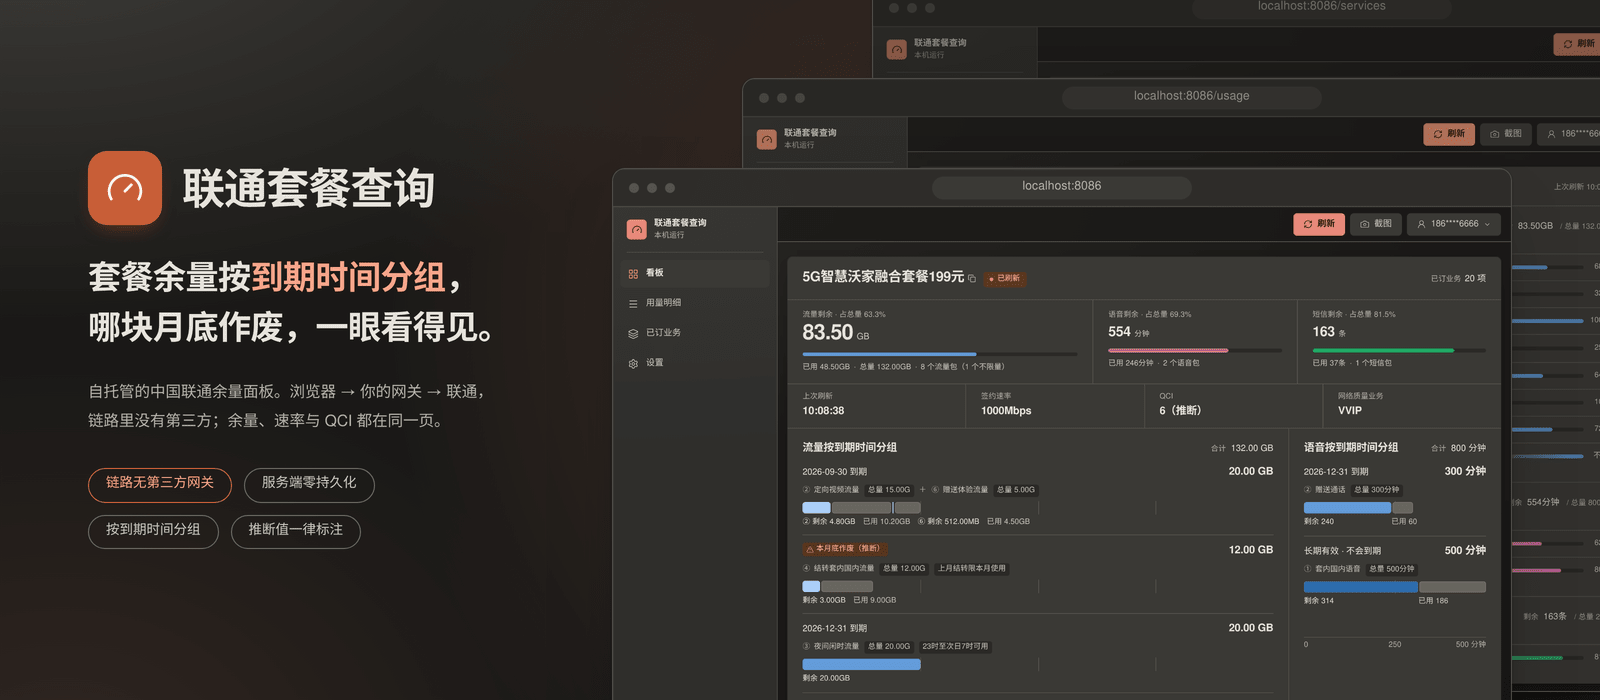
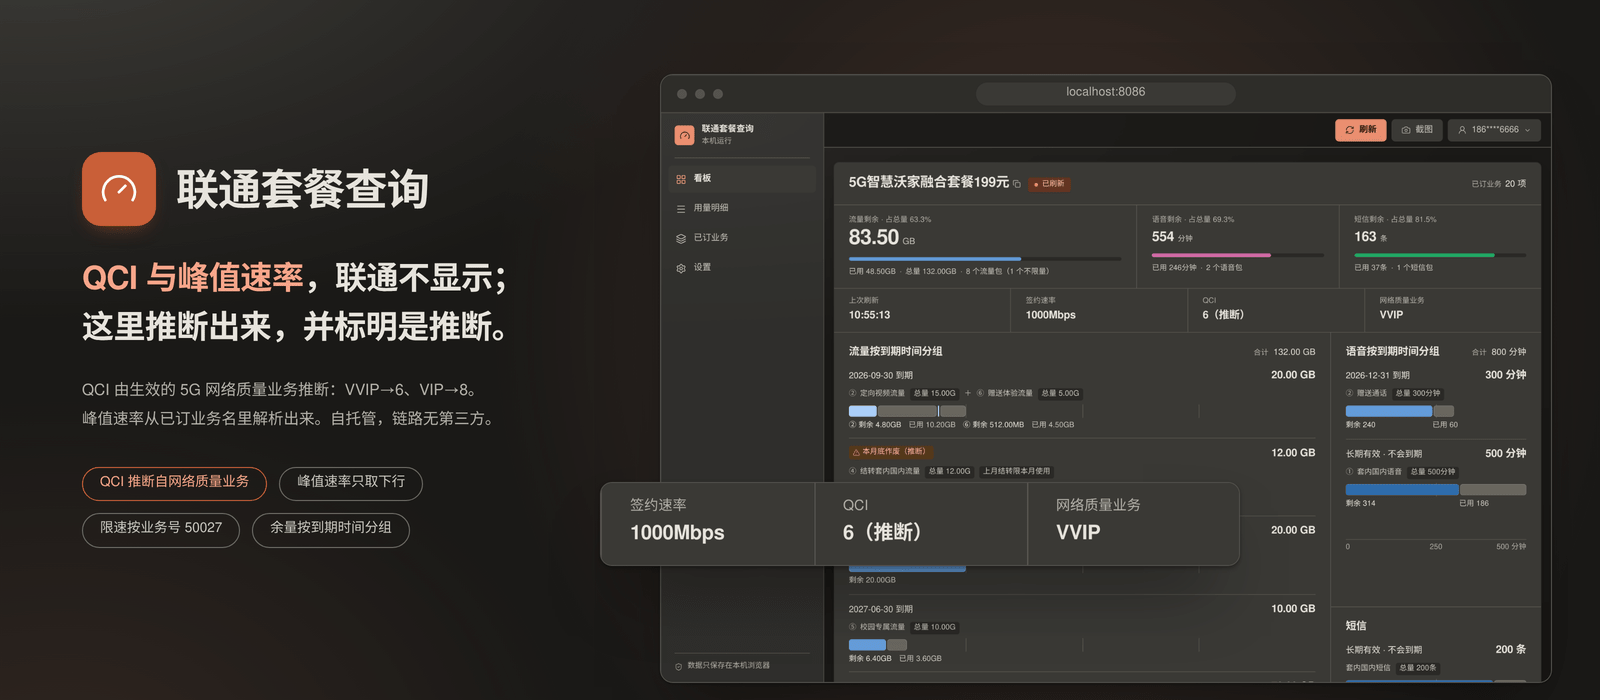
docs: lead with the derived network-quality parameters
The README led with plan balances, which the carrier's own app already
shows, and listed QCI and peak rate third and fourth as if they were
extras. They are the point: the ordered-service endpoint returns no QCI
at all, so the panel derives it from the active 5G quality subscription,
parses peak downlink out of the subscribed-service names, and matches
throttling by its own service id. Reorder the tagline, the opening, the
highlights, the limits and the FAQ around that, and keep the balances
where they belong — after it.

State the epistemics plainly rather than burying them: the values are
derived, every derived value is labelled, they degrade explicitly when
the carrier changes its wording, and the gateway itself never infers —
it reports the active services and lets the browser interpret them.

Redo the hero. Three browser windows bleeding off two edges read as an
accident; it is now one window with a single soft bleed, and the QCI,
rate and network-quality tiles magnified beside it — so the image shows
the thing the copy claims. Both frames come from one page state, so the
clock agrees between the window and the magnified strip.

Sharpen several claims after re-reading the code: throttling is matched
three ways, not one; rate parsing requires a unit as well as a downlink
segment; QCI name matching strips whitespace and brackets first. Drop
the assertion about what the official app hides, which cannot be checked.

diff --git a/README.md b/README.md
@@ -6,13 +6,13 @@
 <picture>
   <source media="(prefers-color-scheme: dark)" srcset="docs/screenshots/hero-dark.png" />
   <source media="(prefers-color-scheme: light)" srcset="docs/screenshots/hero-light.png" />
-  <img src="docs/screenshots/hero-light.png" alt="联通套餐查询 — plan balances grouped by expiry date, so you can see which block is written off at the end of the month" width="880" />
+  <img src="docs/screenshots/hero-light.png" alt="联通套餐查询 — the 签约速率, QCI and 网络质量业务 tiles lifted out of the dashboard at twice the scale, showing 1000Mbps, 6（推断）and VVIP: three parameters the carrier's own app never prints" width="880" />
 </picture>
 
 # Unicom Usage Panel
 
-**A self-hosted China Unicom plan-usage dashboard.**
-Data, voice and SMS balances grouped by expiry date, plus contracted rate, QCI and throttling status — a four-section console on a server you run.
+**The network-quality parameters China Unicom never shows you — worked out, and labelled as worked out.**
+QCI derived from the active 5G quality subscription, peak downlink parsed out of the subscribed-service names, throttling matched by its own service id. Plan balances, grouped by expiry date, come with them — on a server you run.
 
 [![License](https://img.shields.io/badge/license-MIT-blue?style=flat-square)](./LICENSE)
 [![Vue](https://img.shields.io/badge/Vue-3.5-4FC08D?style=flat-square&logo=vue.js&logoColor=white)](package.json)
@@ -34,13 +34,29 @@ Data, voice and SMS balances grouped by expiry date, plus contracted rate, QCI a
 
 ## What it is
 
-You log in with your China Unicom number, and the panel shows what is actually left in the plan. It is split into four sections, each with its own URL — a 264px sidebar from `lg:` up, a bottom tab bar below it:
+China Unicom's own app will tell you how much data is left. It will not tell you which QoS class your line is on, what downlink peak you are contracted for, or whether a throttling service is sitting on the account. The carrier's ordered-service endpoint returns **no QCI field at all** — it returns a list of subscribed services. This panel reads that list, works the parameters out of it, and then says on screen that it did:
+
+| On screen | Where the number actually comes from | What it says when it can't |
+| --- | --- | --- |
+| `QCI 6（推断）` | The active 5G network-quality subscription: `5G网络服务质量VVIP` → 6, `5G网络服务质量VIP` → 8, a service list containing neither → 9, the 3GPP default bearer. Names are matched with whitespace and brackets stripped, so `5G 网络服务质量（VVIP）` still matches — and `VVIP网络服务包0元` still does not. An explicit QCI from the carrier wins and carries no label. | `未确认` when no service list came back at all; `—` when the request itself failed |
+| `签约速率 1000Mbps` | The highest of every *contracted* source: the basic-data signed rate, the ordered-service ceiling `max_net_mbps`, and one candidate per active service whose name spells out a downlink peak. The tile's tooltip lists every source with its own value, so the figure can be checked line by line. | `LTE` when basic data reports LTE and no source reports a number; `—` when nothing reports a positive rate |
+| `限速服务` badge | Service id `50027` in the active list — or a service named exactly 限速服务, or an explicit throttling flag from the carrier. Never guessed from a number that looks slow. | No badge |
+| `网络质量业务 VVIP` | The same match that drives QCI, printed on its own tile, so the evidence sits next to the conclusion. | `—` |
+| `本月底作废（推断）` | The phrase `上月结转限本月使用` inside the resource name. The carrier returns no field for this, and the `endDate` it does return is usually `长期有效`, which would file the pack under “never expires”. | Reword that phrase upstream and the pack falls back to plain expiry-date grouping |
+
+**Peak rate and QCI are separate parameters, and the panel keeps them separate.** A 2000Mbps contracted downlink can still be QCI 8. Rate parsing reads only the downlink half of a service name — `5G-A上网服务(下行峰值2Gbps上行峰值200Mbps）` yields 2000 and never 200, mismatched bracket and all — and a rate found there moves the rate tile and nothing else.
+
+**The gateway itself infers nothing.** It reports the active services, a `has_service_list` boolean, the throttling flag, the carrier's rate ceiling, and an explicit QCI if one ever arrives; the browser does the interpreting, in pure functions in [`src/domain/usage.js`](src/domain/usage.js). That split is why a wrong inference here is a bug you can read rather than a number you have to trust.
+
+Balances are the other half, and they are table stakes — the carrier prints those too. What the carrier does not do is tell you *which* 30 GB dies at the end of the month, which is why they are grouped into one lane per expiry date here.
+
+You log in with your China Unicom number, and all of it is split into four sections, each with its own URL — a 264px sidebar from `lg:` up, a bottom tab bar below it:
 
 | Route | Section | What is on it |
 | --- | --- | --- |
-| `/` | 看板 | Plan name, connection status and the throttling badge; data, voice and SMS balances with a proportion bar each; last refresh, contracted rate, QCI and network-quality tier as four tiles; data, voice and SMS grouped into expiry lanes |
+| `/` | 看板 | Plan name, connection status and the throttling badge; data, voice and SMS balances with a proportion bar each; last refresh, contracted rate, QCI and network-quality tier as four fact tiles, each carrying its derivation in a tooltip; data, voice and SMS grouped into expiry lanes |
 | `/usage` | 用量明细 | One aligned table per resource kind — name, expiry, remaining, used, total, remaining share — with the plan header and the time of the last refresh above them |
-| `/services` | 已订业务 | The services currently active on the line, grouped by kind, with activation dates |
+| `/services` | 已订业务 | Every service currently active on the line, grouped by kind, with activation dates — including the network-quality and rate-bearing entries the QCI and rate tiles are derived from |
 | `/settings` | 设置 | Theme, auto-refresh, accounts, token copying, the privacy notice and build info |
 
 Each route is one card, and that card is the whole page — the sections inside it are separated by the rules the card draws, not by being cards themselves. Routes are lazy-loaded and an unknown path redirects to 看板. Multiple accounts can be saved and switched, the view refreshes every 30 seconds, and the top bar's screenshot button captures the current route's card without a screen recorder.
@@ -110,13 +126,17 @@ A phone number, an SMS code and a carrier session token are the keys to a mobile
 
 ## Highlights
 
+- **A QCI the carrier never sends.** Its ordered-service endpoint has no QCI field. The browser derives the level from the active 5G network-quality subscription — VVIP → 6, VIP → 8, a service list with neither → 9 — and prints it as `6（推断）`. An explicit number from the carrier wins and drops the label.
+- **Peak downlink parsed out of the service names themselves.** `下行峰值2Gbps上行峰值200Mbps` yields 2000, never 200, and survives the carrier's mismatched bracket. The tile shows the highest of the signed rate, the interface ceiling and every rate-bearing service, with all of them and their own values in the tooltip.
+- **Throttling identified, not guessed.** Service id `50027` — or the exact name 限速服务, or an explicit carrier flag — raises the badge. A number that merely looks slow never does.
+- **The whole subscribed-service list, on a page of its own.** Grouped by kind with activation dates, with an 其他业务 catch-all so a service whose id is unrecognised is never dropped, and a gateway whitelist that leaves the phone number and the subscriber's name behind.
+- **Every derived value says it is derived, and degrades out loud.** `（推断）` on anything inferred, `未确认` when the service list is missing, `—` when the request failed, `本月底作废（推断）` on a carried-over pack. Reword the carrier's phrase and the panel falls back rather than guessing.
+- **Buckets grouped by when they expire.** The carrier hands back several packs with the same name; the panel sorts them into one lane per expiry date, nearest first, so “which 30 GB runs out at the end of the month” has an answer.
 - **Self-hosted end to end.** Browser → your Fastify gateway → `10010.com`. No third-party API is ever in the path.
 - **Nothing persisted server-side.** Rate-limit counters and pending-retry state live in process memory and vanish on restart. No database, no files.
-- **Buckets grouped by when they expire.** The carrier hands back several packs with the same name; the panel sorts them into one lane per expiry date, nearest first, so “which 30 GB runs out at the end of the month” has an answer.
-- **Three login modes.** SMS code, Unicom account password, or a raw `ecs_token` — with the carrier's official in-page verification handled inline when it is required.
-- **QCI you can reason about.** The gateway reports only what the carrier returned; the browser derives the level from the active 5G network-quality subscription (VVIP → 6, VIP → 8, subscribed to neither → 9) and labels the result `（推断）`. An explicit QCI number from the carrier always wins.
-- **Charts that cannot invent history.** Nothing is persisted, so nothing can be plotted against time. Every chart is proportion or comparison only — hand-rolled in CSS, with no charting library and no new dependency.
 - **Sub-card data never leaves the gateway.** The balance payload and the subscribed-service list are each rebuilt field by field from an explicit whitelist, so `viceCardlist`, `userMobile`, `usernumber` and `username` are dropped before the response is written.
+- **Charts that cannot invent history.** Nothing is persisted, so nothing can be plotted against time. Every chart is proportion or comparison only — hand-rolled in CSS, with no charting library and no new dependency.
+- **Three login modes.** SMS code, Unicom account password, or a raw `ecs_token` — with the carrier's official in-page verification handled inline when it is required.
 - **One command to deploy.** `docker compose up -d` brings up nginx plus the API with a healthcheck gate and log rotation.
 - **Logs you can paste into an issue.** Request ID, route, HTTP status, carrier business code and response *shape* — never bodies, tokens, cookies or phone numbers.
 
@@ -135,10 +155,10 @@ A phone number, an SMS code and a carrier session token are the keys to a mobile
 **看板** (`/`)
 
 - The plan name is the card's own heading; tap it to copy `onlin_token`, long-press for `ecs_token`. Connection status and the active-service count sit on the same line
-- Throttling detected by its own service ID `50027` and surfaced as a badge in that line
+- Throttling detected by its own service id `50027` — or by the exact service name 限速服务, or by an explicit carrier flag — and surfaced as a badge in that line
 - Data, voice and SMS each get a balance figure, the share of the total it represents, and one proportion bar. The section with a denominator goes first and owns the screen's single 34px figure
 - Where remaining and used do not add up to the total the carrier reported, the percentage and the bar are both withheld and the tile is flagged 数字对不上 — the figures are still printed, because those are what the carrier returned
-- Last refresh, contracted rate, QCI and network-quality tier as four fact tiles, each carrying its reasoning in a tooltip
+- Last refresh, contracted rate, QCI and network-quality tier as four fact tiles. The QCI tooltip states the mapping it used, the rate tooltip lists every source it compared with that source's own value, and the network-quality tile prints the subscription the QCI was read from
 - Data, voice and SMS grouped into expiry lanes: one lane per expiry date, ordered by urgency, bars drawn on a shared absolute scale
 - Carried-over packs are flagged `本月底作废（推断）`, an inference labelled as one
 - Unmetered packs have no denominator, so they stay out of the bars and are reported as a footnote with their absolute used figure
@@ -213,11 +233,12 @@ Not yet verified end to end: SMS send and SMS login. Direct probes of `/mobileSe
 
 Other limits worth knowing:
 
-- `ECS1500 / type=4` is face verification. The carrier's page calls native `faceV3Detect` capabilities that a browser cannot execute, so the UI says so plainly instead of silently downgrading to a weaker check.
+- QCI is inferred from the subscribed-service list unless the carrier returns an explicit number; inferred values carry the `（推断）` label. With no service list at all the field reads `未确认`, and a failed request leaves it at `—`. The mapping was checked against a real line, but it is a mapping, not a field the carrier sends.
 - The rate on screen is the highest of every *contracted* value the carrier reports — the plan's signed rate, the ordered-service rate ceiling, and a downlink peak for each active service whose name spells one out. Every source and its own value are listed in the tile's tooltip, so the figure can be checked line by line. None of them is a speed test, and none of them participates in the QCI decision.
+- Parsing a rate out of a service name depends on the carrier's wording. Only a number with a unit counts, and only the `下行` half of the name — `5G上网服务` therefore yields nothing rather than 5 Gbps, and `提速包（上行200Mbps）` yields nothing rather than 200.
 - A service counts as active only when the carrier's `servicestate` says so: the numeric `"1"`, or — for response shapes that report text instead — a Chinese status that is not one of the retired / expired / not-yet-effective ones. A cancelled network-quality subscription therefore no longer inflates the QCI.
-- QCI is inferred from the subscribed-service list unless the carrier returns an explicit number; inferred values carry the `（推断）` label. With no service list at all the field reads `未确认`, and a failed request leaves it at `—`.
 - `本月底作废（推断）` is inferred too, from the phrase `上月结转限本月使用` inside the resource name — the carrier returns no field for it. Reword that phrase upstream and the pack falls back to plain expiry-date grouping; the panel never pretends to know.
+- `ECS1500 / type=4` is face verification. The carrier's page calls native `faceV3Detect` capabilities that a browser cannot execute, so the UI says so plainly instead of silently downgrading to a weaker check.
 - Rate limiting is per-process and in-memory. It is not suitable for sharing across replicas.
 - Behaviour varies by account and by province. Carrier field names can change; `normalize.js` and the `UNICOM_*_PATH` variables are the adjustment points.
 
@@ -237,10 +258,10 @@ Lanes are ordered by urgency: this month (including the inferred carried-over pa
 
 Four correctness properties are visible on screen rather than papered over:
 
+- **An inferred conclusion is labelled as inferred and carries its reasoning** — `6（推断）`, `本月底作废（推断）` — in a tooltip that states what it was derived from. `tests/uiContract.test.js` asserts the label, asserts that it can explain itself, and refuses a badge that carries no reason.
 - **An unmetered bucket has no denominator**, so it is excluded from every proportion chart. On 看板 it becomes a footnote carrying the absolute used figure; in 用量明细 it gets an indeterminate sweeping bar and the word `不限量` instead of a percentage.
 - **A row whose ratio the carrier did not report draws no bar.** An empty track is the honest rendering; the percentage cell reads `—`.
 - **Remaining + used ≠ total is never smoothed over.** On 看板 the overview drops both the percentage and the bar for that resource and flags the tile 数字对不上; in the expiry lanes the bar is clamped so it cannot run past the ruler and a line under the lane names the packs that do not reconcile. Either way the percentage is dropped rather than computed from the clamp, and the carrier's own figures are printed unchanged.
-- **An inferred conclusion is labelled as inferred and carries its reasoning** — `6（推断）`, `本月底作废（推断）` — in a tooltip that states what it was derived from.
 
 A separate 本月消耗去向 dot plot existed briefly and was removed as redundant: every lane already draws a used segment and prints its own used figure, so the dot plot restated the same numbers a second way on the same screen.
 
@@ -492,7 +513,7 @@ All request bodies are JSON objects, capped at 16 KiB. The SPA sends `Content-Ty
 | `POST` | `/gettoken/?action=password` | Phone number + Unicom account password |
 | `POST` | `/ocs_proxy/` | Plan and resource balances, rebuilt from a field whitelist |
 | `POST` | `/basicdata_proxy/` | Masked number, contracted rate, LTE status |
-| `POST` | `/qci_proxy/` | Subscribed services: network-quality levels, service-list presence, throttling flag, the carrier's rate ceiling, the whitelisted list of active services, and an explicit QCI if the carrier sent one |
+| `POST` | `/qci_proxy/` | The endpoint everything derived comes out of. Subscribed services: network-quality levels, service-list presence, throttling flag, the carrier's rate ceiling, the whitelisted list of active services with any downlink peak parsed out of their names, and an explicit QCI if the carrier sent one. Facts only — no inference |
 
 Field-level details, the exact data flow, what lands in `localStorage`, clipboard and screenshot behaviour, and the full service disclaimer are in [docs/api-and-privacy.md](docs/api-and-privacy.md) — the same file the in-app privacy modal renders. Gateway internals, verification notes and troubleshooting are in [server/README.md](server/README.md).
 
@@ -504,6 +525,18 @@ Field-level details, the exact data flow, what lands in `localStorage`, clipboar
 
 <details>
 <summary><b>FAQ</b></summary>
+
+**Where does the QCI number come from?**
+
+From the subscribed-service list — because the carrier's ordered-service endpoint returns no QCI field. An active *5G网络服务质量VVIP* subscription maps to QCI 6, an active *VIP* to QCI 8, and a service list that contains neither to 9, the 3GPP default bearer. Names are compared with whitespace and brackets stripped, so `5G 网络服务质量（VVIP）` matches while `VVIP网络服务包0元` does not. Values reached that way are labelled `（推断）` in the UI, for example `8（推断）`. If the carrier returns an explicit QCI number, that number is used verbatim and carries no label. With no service list at all the field reads `未确认`; if the request itself fails it stays `—`.
+
+The gateway does not infer anything — it reports `network_quality_services`, a `has_service_list` boolean, the throttling flag, the rate ceiling `max_net_mbps` and a whitelisted `services` list, and the browser does the mapping. Only services the carrier marks as active are counted, so a cancelled *VVIP* subscription cannot keep producing QCI 6. Bandwidth ceilings and QoS class remain formally distinct parameters, which is exactly why an inferred value is marked as inferred: a 2000Mbps contracted downlink can still be QCI 8, and a rate parsed out of a service name changes the rate on screen and nothing else.
+
+**Where does the contracted rate come from, and why is it higher than the one in my plan description?**
+
+Because a line often carries more than one rate-bearing service — a basic data service plus a 5G-A booster, say — the tile shows the highest of three contracted sources: the signed rate from `/basicdata_proxy/`, the ceiling `max_net_mbps` from `/qci_proxy/`, and a downlink peak parsed out of each active service's own name. Hover the tile and every source is listed with its own value, so you can see which one won.
+
+Parsing is deliberately narrow. Only a number carrying a unit counts, so `5G上网服务` yields nothing rather than 5 Gbps. Only the `下行` half of the name counts, so `5G-A上网服务(下行峰值2Gbps上行峰值200Mbps）` yields 2000 and `提速包（上行200Mbps）` yields nothing. None of these is a speed test, and none of them touches the QCI decision.
 
 **I used to see fewer data packs than my plan has.**
 
@@ -520,12 +553,6 @@ Set `ALLOWED_ORIGINS=https://your-frontend-domain` in `server/.env`. Same-origin
 **Is `VITE_API_ACCESS_TOKEN` a password?**
 
 No. Anything prefixed `VITE_` is compiled into public JavaScript. Restrict access with a VPN or reverse-proxy auth in front of both the page and the API.
-
-**Where does the QCI number come from?**
-
-From the subscribed-service list. An active *5G 网络服务质量 VVIP* subscription maps to QCI 6, an active *VIP* to QCI 8, and a service list that contains neither to 9, the 3GPP default bearer. Values reached that way are labelled `（推断）` in the UI, for example `8（推断）`. If the carrier returns an explicit QCI number, that number is used verbatim and carries no label. With no service list at all the field reads `未确认`; if the request itself fails it stays `—`.
-
-The gateway does not infer anything — it reports `network_quality_services`, a `has_service_list` boolean, the throttling flag, the rate ceiling `max_net_mbps` and a whitelisted `services` list, and the browser does the mapping. Only services the carrier marks as active are counted, so a cancelled *VVIP* subscription cannot keep producing QCI 6. Bandwidth ceilings and QoS class remain formally distinct parameters, which is exactly why an inferred value is marked as inferred: a 2000Mbps contracted downlink can still be QCI 8, and a rate parsed out of a service name changes the rate on screen and nothing else.
 
 **Why is one of my packs flagged `本月底作废（推断）`?**
 

diff --git a/server/README.md b/server/README.md
@@ -2,6 +2,8 @@
 
 自托管的 Fastify 网关。默认数据流是浏览器 → 你的后端 → 中国联通，链路中不存在第三方网关，也不持久化手机号、短信验证码或联通 Token。
 
+面板对外的卖点是把联通不显示的 QCI 与峰值速率算出来，而**这一层刻意不参与那个计算**。网关只转述事实：在用业务清单、是否取到清单、限速标志、可用最高速率，以及联通万一真给了的 QCI 数字；推断全部留给浏览器，这样推错了是一段读得到的纯函数，而不是一个藏在服务端的黑盒。这条分工连同白名单细节，见下文「速率与 QCI」。
+
 ## 它做什么
 
 前端以 `Content-Type: text/plain;charset=UTF-8` 提交 JSON，也兼容 `application/json`。后端只接收 JSON 对象，请求正文上限 16 KiB；所有接口响应禁止缓存。
@@ -14,7 +16,7 @@
 | `POST /gettoken/?action=password` | 手机号 + 联通登录密码登录 |
 | `POST /ocs_proxy/` | 套餐与资源余量，按字段白名单逐条重建 |
 | `POST /basicdata_proxy/` | 脱敏号码、签约速率 |
-| `POST /qci_proxy/` | 已订业务：网络质量业务、业务清单标志、限速状态、可用最高速率、在用业务清单 |
+| `POST /qci_proxy/` | 已订业务：网络质量业务、业务清单标志、限速状态、可用最高速率、在用业务清单（含业务名里解析出的下行峰值）。QCI 推断不在这一层 |
 | `GET /healthz` | 健康检查 |
 
 ## 快速开始
